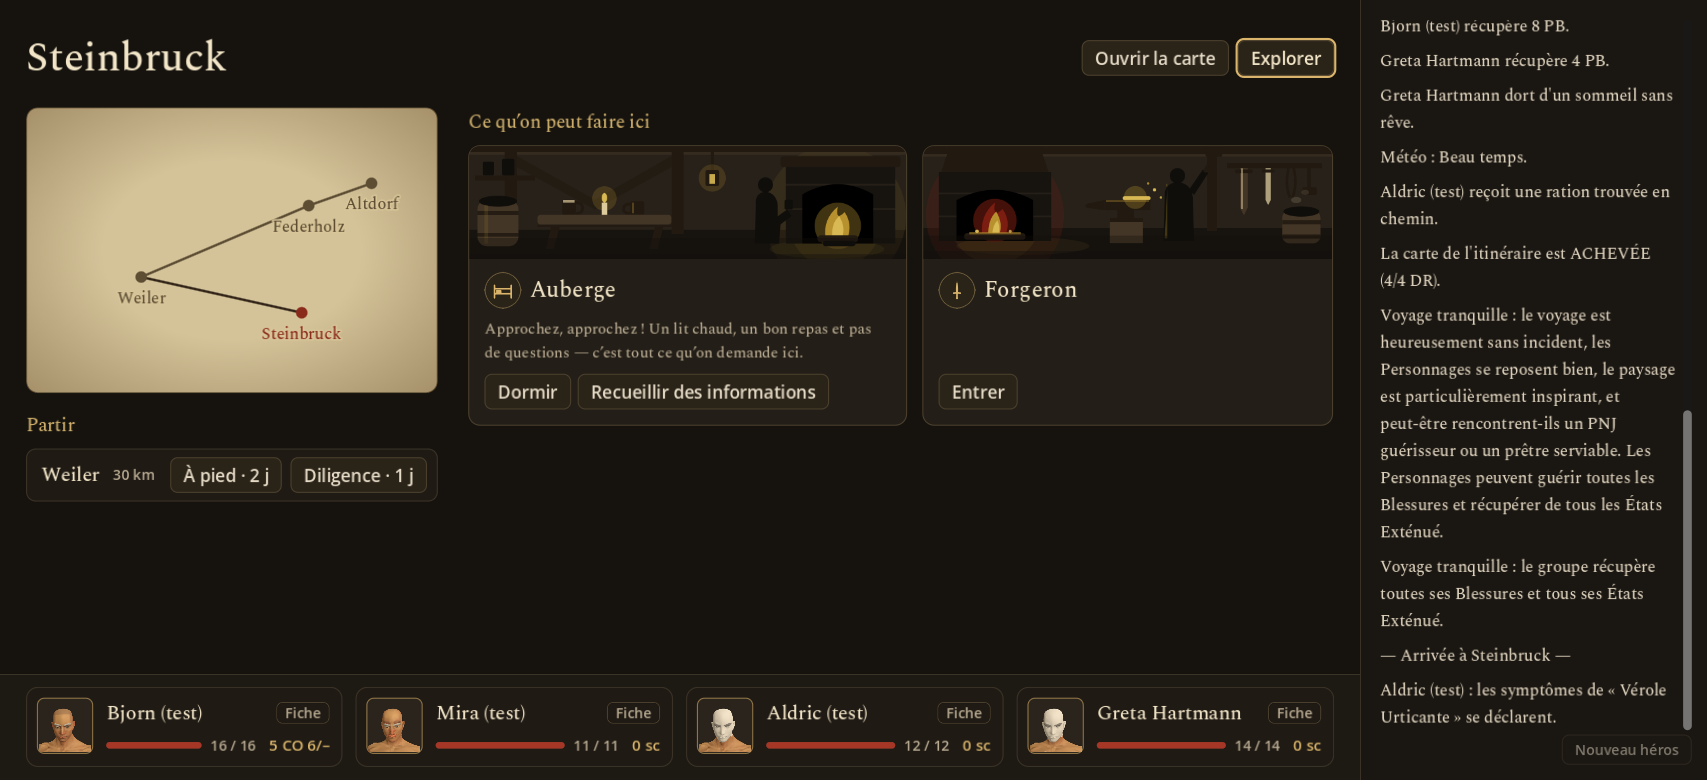
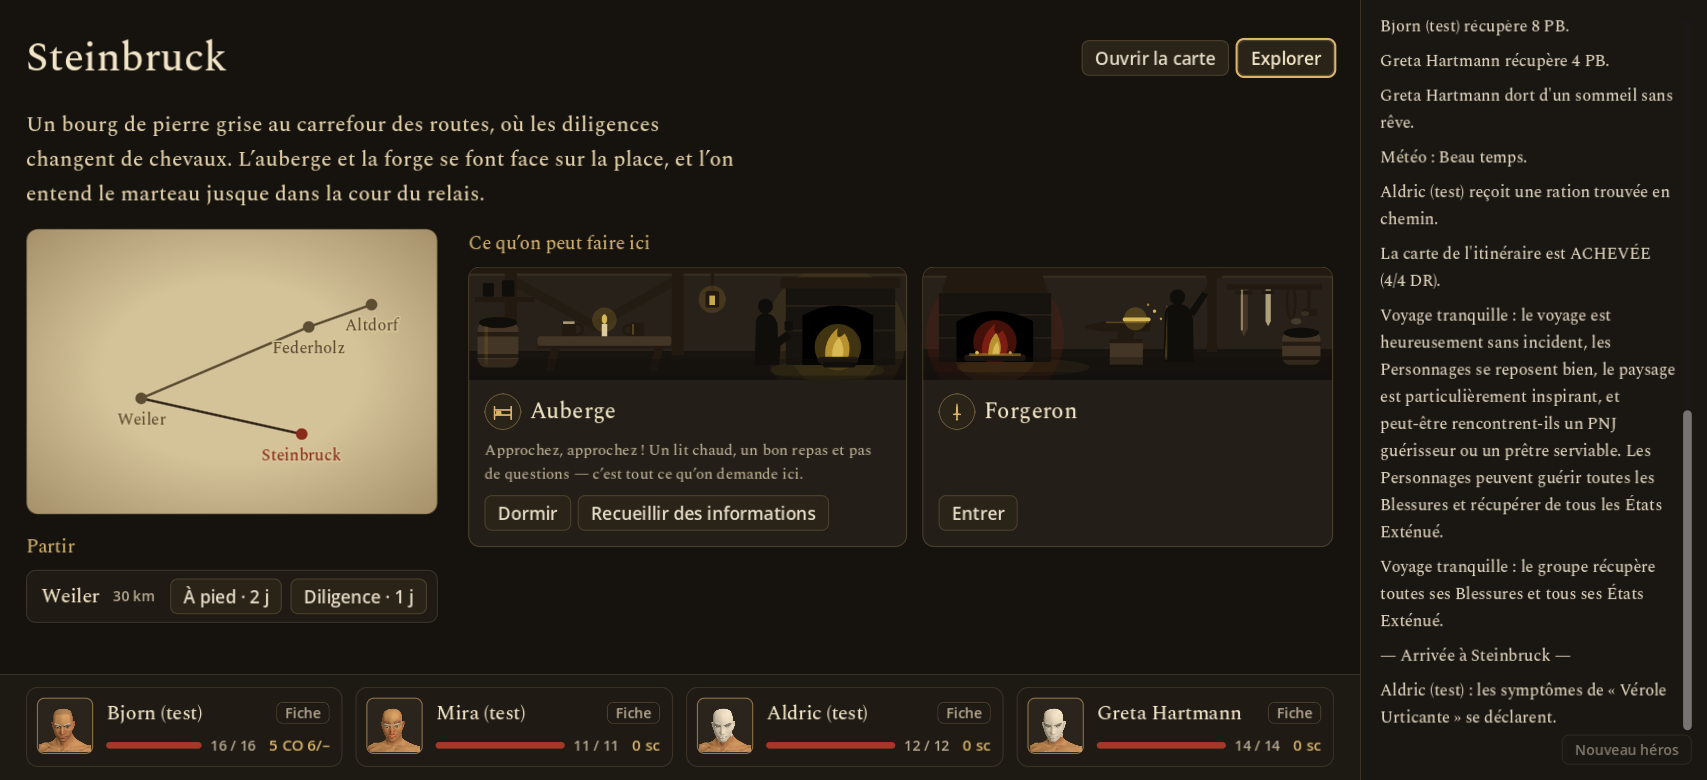
feat(monde): un lieu de la carte porte sa description, lue à son écran (#3935)
refs #3935 #3534

L'écart nommé au ticket #3534 : « aucun champ ne porte la description du lieu dans `MapPlace`, et la prose doit
suivre la règle 5 ».

Donnée :
- `worldMap.places[].description` est une prose nommée de paquet (`PROSES_NOMMEES`, narration, optionnelle), portée
  par le lieu lui-même avec sa provenance (`source` / `adapteDe` / Maison), sur le patron du terrain d'une bataille
  (`massBattle.terrain`) : aucun nœud d'objet neuf au schéma du projet.
- L'éditeur de carte la saisit et dit sa provenance ; l'écran de ville du web la rend en tête (site déclaré à
  `SITES_PROSE`).

Vue :
- `lieuEnVue` la sert dite aux identités en vigueur (`nommer`) ; `ecranDuLieu` l'émet en ligne `lieu/description`.

Godot :
- La ligne prend la forme `description` (Spectral 20, ligne de 66 caractères) sous le titre du lieu, au-dessus du
  plan et des services ; sans description, l'écran ne lui garde aucune place.

Les quatre lieux du scénario de test `voyage` reçoivent une description maison ; la planche `lieu` est
réenregistrée et son étalon reposé, non validé. La planche `document` est réenregistrée avec elle : sur `main`
propre, `--enregistrer` la réécrit déjà (seule `plateau.cleDuMonde` y change), son étalon reste conforme.

Reste ouvert au ticket : l'illustration propre au lieu (aucune vague d'art sans demande) et les gens du lieu, qui
demandent un verbe au noyau (l'écran du lieu n'entre pas dans la scène où vivent ses PNJ).
[…]

diff --git a/src/noyau/lieuEnVue.ts b/src/noyau/lieuEnVue.ts
@@ -1,6 +1,7 @@
 /**
- * LE LIEU EN VUE (#3534) — ce qu'un hôte montre de l'écran du lieu qui tient la main : le nom du lieu, sa place sur le
- * plan de la carte (`planDepuis`) et le geste qui l'ouvre, chacun de ses services (`placeServices`), son icône, son fond,
+ * LE LIEU EN VUE (#3534) — ce qu'un hôte montre de l'écran du lieu qui tient la main : le nom du lieu, sa description
+ * dite aux identités en vigueur (`nommer`), sa place sur le plan de la carte (`planDepuis`) et le geste qui l'ouvre,
+ * chacun de ses services (`placeServices`), son icône, son fond,
  * le boniment de son hôte et ce qu'on y fait, écrit en verbe du noyau avec ce qui le ferme maintenant, les points
  * d'intérêt de son plan qui mènent à une scène et le choix d'y entrer (`entreesDuLieu`, #3611), puis les trajets qui en partent
  * (`trajetsDepuis`). Lecteur PUR, lu par les hôtes du noyau (`hote/ecran.ts`).
@@ -12,6 +13,7 @@ import { planDepuis, trajetsDepuis, type PlanDeLaCarte, type TrajetEnVue } from 
 import { refusDEntrerAuPort } from './portFlow';
 import { entreesDuLieu, refusDEntrerAuPoint } from './lieuFlow';
 import { sceneDuRegistre } from './monde/registreDesScenes';
+import { identitesResolues, nommer } from './monde/identites';
 import { fenetreDuJeu } from './combatAuto';
 import { VERBE_DE_CHOIX } from './choixDesFenetres';
 import { t } from '../i18n';
@@ -26,9 +28,9 @@ export interface ServiceEnVue { id: string; nom: string; icone: string; fond: st
 /** Un point d'intérêt du plan du lieu qui mène à une scène, et le geste d'y entrer. */
 export interface PointDInteretEnVue { id: string; nom: string; geste: GesteDuService }
 
-/** L'écran du lieu : son nom, le plan de la carte vu d'ici et le geste qui ouvre la carte, ses services, ses points
- *  d'intérêt, ses trajets. */
-export interface LieuEnVue { nom: string; plan: PlanDeLaCarte; carte: GesteDuService; services: ServiceEnVue[]; pointsDInteret: PointDInteretEnVue[]; trajets: TrajetEnVue[] }
+/** L'écran du lieu : son nom, sa description, quand il en a une, le plan de la carte vu d'ici et le geste qui ouvre
+ *  la carte, ses services, ses points d'intérêt, ses trajets. */
+export interface LieuEnVue { nom: string; description: string | null; plan: PlanDeLaCarte; carte: GesteDuService; services: ServiceEnVue[]; pointsDInteret: PointDInteretEnVue[]; trajets: TrajetEnVue[] }
 
 /** Ce qu'on fait au service `svc` du lieu : y dormir et y recueillir des informations à l'auberge, y entrer
  *  ailleurs (le port, le marché, l'échoppe de son marchand) ; rien pour un service sans écran. */
@@ -60,5 +62,6 @@ export function lieuEnVue(s: Jeu): LieuEnVue | null {
   }));
   const carte: GesteDuService = { id: 'carte', libelle: t('lieu.carte'), geste: { verbe: 'ouvrirLaCarte', args: [] }, refus: null };
   const trajets = trajetsDepuis(s, s.worldMap, ici);
-  return { nom: ici.label, plan: planDepuis(s, s.worldMap, ici, trajets), carte, services, pointsDInteret, trajets };
+  const description = ici.description ? nommer(ici.description, identitesResolues(s)) : null;
+  return { nom: ici.label, description, plan: planDepuis(s, s.worldMap, ici, trajets), carte, services, pointsDInteret, trajets };
 }

diff --git a/src/scenes/test-scenarios/voyage.ts b/src/scenes/test-scenarios/voyage.ts
@@ -163,12 +163,16 @@ const construireCarte = (): WorldMap => ({
   id: 'test-voyage-carte',
   label: 'Marches de Weiler (test)',
   places: [
-    { id: 'p-village', label: 'Weiler', pos: { x: 24, y: 62 }, scene: { id: 'test-voyage-village' }, icon: 'scenario/village' },
-    { id: 'p-hameau', label: 'Federholz', pos: { x: 72, y: 30 }, scene: { id: 'test-voyage-hameau' }, icon: 'scenario/hamlet' },
-    { id: 'p-bourg', label: 'Steinbruck', pos: { x: 70, y: 78 }, scene: { id: 'test-voyage-bourg' }, icon: 'scenario/port', services: [{ kind: { id: 'auberge' }, rest: { auberge: true } }, { kind: { id: 'forgeron' } }] },
+    { id: 'p-village', label: 'Weiler', pos: { x: 24, y: 62 }, scene: { id: 'test-voyage-village' }, icon: 'scenario/village',
+      description: 'Une rue de boue, un puits, une auberge dont l’enseigne grince. Weiler vit de ses champs et de ceux qui passent : la piste s’enfonce sous les arbres vers Federholz, la route descend vers le bourg de Steinbruck.' },
+    { id: 'p-hameau', label: 'Federholz', pos: { x: 72, y: 30 }, scene: { id: 'test-voyage-hameau' }, icon: 'scenario/hamlet',
+      description: 'Quelques toits de chaume serrés contre la lisière. Les bûcherons de Federholz regardent passer les étrangers sans hâte ; après la dernière clôture commence la longue route d’Altdorf.' },
+    { id: 'p-bourg', label: 'Steinbruck', pos: { x: 70, y: 78 }, scene: { id: 'test-voyage-bourg' }, icon: 'scenario/port', services: [{ kind: { id: 'auberge' }, rest: { auberge: true } }, { kind: { id: 'forgeron' } }],
+      description: 'Un bourg de pierre grise au carrefour des routes, où les diligences changent de chevaux. L’auberge et la forge se font face sur la place, et l’on entend le marteau jusque dans la cour du relais.' },
     // id 'altdorf' (pas juste 'p-cite') : les Activités d'Altdorf (ACE Annexe I) gatées `where:['altdorf']`
     // (activities.json — Pénitence, Entraînement, Tester des objets…) lisent le `lieu` du groupe par son id.
-    { id: 'altdorf', label: 'Altdorf', pos: { x: 90, y: 20 }, scene: { id: 'test-voyage-cite' }, icon: 'scenario/siege' },
+    { id: 'altdorf', label: 'Altdorf', pos: { x: 90, y: 20 }, scene: { id: 'test-voyage-cite' }, icon: 'scenario/siege',
+      description: 'La capitale s’annonce par l’odeur de son fleuve bien avant ses murs. Passé la porte, la foule, les étals et les crieurs avalent le voyageur : ici tout s’achète, et tout se sait.' },
   ],
   routes: [
     {

diff --git a/src/data/schemas/defs-scenes/worldmap.ts b/src/data/schemas/defs-scenes/worldmap.ts
@@ -116,7 +116,7 @@ export const placePoiSchema = nommerChamps(z
   }), { id: { label: "identifiant" , texte: { regime: "technique"} }, label: { label: "libellé" , texte: { regime: "designation"} }, pos: { label: "position" }, icon: { label: "icône" , texte: { regime: "technique"} }, sceneId: { label: "scène" , texte: { regime: "technique"} }, serviceKind: { label: "type de service" , texte: { regime: "technique"} } });
 
 /** `MapPlace` — lieu posé sur la carte ; être dans `scene` = être à ce lieu. */
-export const mapPlaceSchema = nommerChamps(z.strictObject({
+export const mapPlaceSchema = proseNommee(nommerChamps(z.strictObject({
   id: z.string(),
   label: z.string(),
   /** Position sur la carte du monde. */
@@ -135,7 +135,7 @@ export const mapPlaceSchema = nommerChamps(z.strictObject({
    *  narratif : la destination n'apparaît qu'une fois révélée. Absente = toujours visible. */
   when: conditionCondCtxSchema.optional(),
   couvre: couvreSchema.optional(),
-}), { id: { label: "identifiant" , texte: { regime: "technique"} }, label: { label: "libellé" , texte: { regime: "designation"} }, pos: { label: "position" }, scene: { label: "scène" , texte: { regime: "technique"} }, entry: { label: "entrée" , texte: { regime: "technique"} }, icon: { label: "icône" , texte: { regime: "technique"} }, port: { label: "port" }, market: { label: "marché" }, services: { label: "services" }, poi: { label: "points d’intérêt" }, backdrop: { label: "fond" }, when: { label: "condition" }, couvre: { label: "entrées couvertes" , texte: { regime: "technique"} } });
+}), { id: { label: "identifiant" , texte: { regime: "technique"} }, label: { label: "libellé" , texte: { regime: "designation"} }, pos: { label: "position" }, scene: { label: "scène" , texte: { regime: "technique"} }, entry: { label: "entrée" , texte: { regime: "technique"} }, icon: { label: "icône" , texte: { regime: "technique"} }, port: { label: "port" }, market: { label: "marché" }, services: { label: "services" }, poi: { label: "points d’intérêt" }, backdrop: { label: "fond" }, when: { label: "condition" }, couvre: { label: "entrées couvertes" , texte: { regime: "technique"} } }), 'worldMap.places[].description');
 
 /** `RoutePeril` — péripétie d'AUTEUR tirée chaque jour de voyage à `chancePct` %. Hors de toute scène, elle en ouvre
  *  les portées VIDES (`ouvrirPortees`, source `'vide'`) : aucune référence locale de la scène n'y résout. */

diff --git a/src/data/schemas/grammaire/prose-nommee.test.ts b/src/data/schemas/grammaire/prose-nommee.test.ts
@@ -8,7 +8,7 @@ import { indiceStadeSchema, documentNarratifSchema } from '../defs-scenes/narrat
 import { designerHerosSchema, ouvertureSchema, sousTitreOuvertureSchema, sousTitreClotureSchema } from './campagne';
 import { massBattleSpecSchema, setObjectiveSchema, grantFavorSchema, journalSchema, sceneFlowSchema } from '../defs-scenes/effets';
 import { dialogueNodeSchema, messageIntroductionSchema } from '../defs-scenes/scene';
-import { refusRouteSchema } from '../defs-scenes/worldmap';
+import { mapPlaceSchema, refusRouteSchema } from '../defs-scenes/worldmap';
 import { authoredStakeSchema, OP_DEFS, gameOpSchema, OPS_NON_TYPEES } from './mecanique';
 import { coDescendre, descendre, enfantsDe, declarationDEnfants, defDe } from './descente';
 import { fautesProseFinale, classificationsProseLocale } from '../../../../scripts/guards/lib/proseNommee.mjs';
@@ -27,6 +27,7 @@ const SITES: Record<keyof typeof PROSES_NOMMEES, { schema: z.ZodType; nu: Record
   'massBattle.terrain': { schema: massBattleSpecSchema, nu: { allyMight: 50, enemyMight: 50, terrain: 'Texte.' } },
   'scenes[].startMessage.texte': { schema: messageIntroductionSchema, nu: { texte: 'Texte.' } },
   'worldMap.routes[].refus.texte': { schema: refusRouteSchema, nu: { texte: 'Texte.' } },
+  'worldMap.places[].description': { schema: mapPlaceSchema, nu: { id: 'lieu', label: 'Lieu', pos: { x: 10, y: 10 }, scene: { id: 's1' }, description: 'Texte.' } },
   'narratif.ouverture.sousTitre.texte': { schema: sousTitreOuvertureSchema, nu: { texte: 'Texte.' } },
   'narratif.cloture.sousTitre.texte': { schema: sousTitreClotureSchema, nu: { texte: 'Texte.' } },
   'setObjective.desc': { schema: setObjectiveSchema, nu: { type: 'setObjective', id: 'objectif', desc: 'Texte.' } },

diff --git a/src/hote/ecran.ts b/src/hote/ecran.ts
@@ -374,16 +374,17 @@ function trajetsDeLaCarte(etat: Jeu): Element[] {
   ];
 }
 
-/** L'écran du lieu (`lieuEnVue`), dont le nom est le titre de la fenêtre : le plan de la carte vu d'ici (`lieu/plan`,
- *  `planDeLaCarte`, rien sous ses lieux) et le bouton qui ouvre la carte (`lieu/carte`) ; sous leur titre
- *  (`lieu/services`), chacun de ses services en entité, son fond (`fond`), son icône (`icone`), le boniment de son hôte
- *  (`accueil`) et ce qu'on y fait en boutons fermés avec leur raison, chacun des points d'intérêt de son plan et son
+/** L'écran du lieu (`lieuEnVue`), dont le nom est le titre de la fenêtre : sa description (`lieu/description`),
+ *  quand il en a une ; le plan de la carte vu d'ici (`lieu/plan`, `planDeLaCarte`, rien sous ses lieux) et le bouton
+ *  qui ouvre la carte (`lieu/carte`) ; sous leur titre (`lieu/services`), chacun de ses services en entité, son fond
+ *  (`fond`), son icône (`icone`), le boniment de son hôte (`accueil`) et ce qu'on y fait en boutons fermés avec leur raison, chacun des points d'intérêt de son plan et son
  *  entrée ; puis, sous leur titre (`lieu/trajets`), chaque trajet qui en part, sa destination et son départ
  *  (`departDuTrajet`). */
 function ecranDuLieu(etat: Jeu): Element[] {
   const l = lieuEnVue(etat);
   if (!l) return [];
   return [
+    ...(l.description ? [ligne('lieu/description', l.description)] : []),
     planDeLaCarte('lieu/plan', l.plan, () => []),
     boutonDeGeste('lieu/carte', l.carte.libelle, l.carte.geste, l.carte.refus),
     ...(l.services.length || l.pointsDInteret.length ? [ligne('lieu/services', t('ecran.lieu.services'))] : []),

diff --git a/src/ui/editor/WorldMapPlacePanel.tsx b/src/ui/editor/WorldMapPlacePanel.tsx
@@ -23,6 +23,8 @@ import { navalPorts, findNavalPortById, lieuxServices } from '../../data';
 import { IconField, BackdropField, RefSelect } from './worldMapPickers';
 import { WhenEditor } from './ConditionEditor';
 import { CouvreField } from './CouvreField';
+import { ProseField } from '../ProseField';
+import { ProvenanceDuTexte } from './ProvenanceDuTexte';
 import { CONDITION_KINDS_CARTE } from '../../data/schemas/grammaire/campagne';
 import { idDEntropie } from '../../web/entropie';
 
@@ -61,6 +63,8 @@ export function WorldMapPlacePanel({ place, scenes, narratif, updPlace }: {
           </label>
           <IconField label="Icône" value={place.icon} onChange={(icon) => updPlace(place.id, { icon })} />
           <BackdropField label="Fond d'ambiance" value={place.backdrop?.id} onChange={(id) => updPlace(place.id, { backdrop: id === undefined ? undefined : { id } })} />
+          <ProseField label="Description" value={place.description ?? ''} onChange={(description) => updPlace(place.id, description.trim() ? { description } : { description: undefined, source: undefined, adapteDe: undefined })} />
+          {place.description && <ProvenanceDuTexte copie identite={`${place.id}/description`} sujet="de la description du lieu" value={place} onChange={(patch) => updPlace(place.id, patch)} />}
           <RefSelect
             label="Scène liée"
             options={scenes}

diff --git a/src/data/schemas/grammaire/champs-prose-de-scene.ts b/src/data/schemas/grammaire/champs-prose-de-scene.ts
@@ -6,6 +6,7 @@ export const PROSES_NOMMEES = {
   'massBattle.terrain': { champ: 'terrain', label: 'terrain', regime: 'narration', presence: 'optionnel', porteur: 'folio' },
   'scenes[].startMessage.texte': { champ: 'texte', label: 'message d’introduction', regime: 'narration', presence: 'requis', porteur: 'folio' },
   'worldMap.routes[].refus.texte': { champ: 'texte', label: 'raison du refus', regime: 'narration', presence: 'requis', porteur: 'folio' },
+  'worldMap.places[].description': { champ: 'description', label: 'description', regime: 'narration', presence: 'optionnel', porteur: 'folio' },
   'narratif.ouverture.sousTitre.texte': { champ: 'texte', label: 'sous-titre', regime: 'narration', presence: 'requis', porteur: 'folio' },
   'narratif.cloture.sousTitre.texte': { champ: 'texte', label: 'sous-titre', regime: 'narration', presence: 'requis', porteur: 'folio' },
   'setObjective.desc': { champ: 'desc', label: 'objectif', regime: 'narration', presence: 'requis', porteur: 'adresse' },

diff --git a/src/ui/liage.ts b/src/ui/liage.ts
@@ -97,6 +97,7 @@ export const SITES_PROSE: SiteProse[] = [
   { cle: 'src/ui/CityHubScreen.tsx#ActivityPane.desc#3', origine: 'S', porteur: 'lieux-services.desc' },
   { cle: 'src/ui/CityHubScreen.tsx#ActivityPane.desc#4', origine: 'S', porteur: 'lieux-services.desc' },
   { cle: 'src/ui/CityHubScreen.tsx#ActivityPane.desc#5', origine: 'UI', paquet: [], note: 'littéral d’écran (« Ce point mène à un autre endroit. ») — aucune source' },
+  { cle: 'src/ui/CityHubScreen.tsx#Prose.md#1', origine: 'S', paquet: ['worldMap.places[].description'], note: 'description du lieu, en tête de son écran' },
 
   // ── Mer & navire ──────────────────────────────────────────────────────────────────────────────
   { cle: 'src/ui/PortView.tsx#Prose.md#1', origine: 'S', porteur: 'navalPorts.desc' },

diff --git a/hotes/godot/pont/voyage.hors-store.test.ts b/hotes/godot/pont/voyage.hors-store.test.ts
@@ -74,6 +74,7 @@ describe('le voyage par le pont', () => {
     expect(suite.vue.zones['fenetre.titre'].map((l) => l.texte), 'le lieu en titre').toEqual(['Steinbruck']);
     expect(suite.vue.projection.scene?.id, 'le groupe n’est pas entré dans la scène du lieu').toBe('test-voyage-village');
     const corps = parId(suite.vue.zones['fenetre.corps']);
+    expect((corps['lieu/description'] as Ligne).texte, 'la description du lieu').toMatch(/^Un bourg de pierre grise au carrefour des routes/);
     const plan = corps['lieu/plan'] as Plan;
     expect(plan.points.filter((pt) => pt.ton === 'alerte').map((pt) => pt.nom), 'le plan de la carte vu d’ici, le lieu du groupe en alerte').toEqual(['Steinbruck']);
     expect(plan.points.flatMap((pt) => pt.elements), 'rien sous les lieux de ce plan : on part depuis les trajets').toEqual([]);

diff --git a/src/noyau/worldMap.ts b/src/noyau/worldMap.ts
@@ -66,6 +66,10 @@ export interface MapPlace {
   /** Bande d'ambiance du hub de ce lieu (id du registre des fonds de l'hôte) — surcharge le défaut
    *  éventuel porté par le service (`lieux-services.json`, ex. auberge). Éditable dans `WorldMapEditor`. */
   backdrop?: { id: string };
+  /** Ce que le groupe voit et sait du lieu en y arrivant, lu à l'écran du lieu. */
+  description?: string;
+  source?: SourceRef;
+  adapteDe?: SourceRef;
   /** Le lieu EXISTE-t-il sur la carte (algèbre `Condition`, cf. `evalCondition`) — axe NŒUD du gating
    *  narratif : une destination n'apparaît qu'une fois RÉVÉLÉE par le récit (`setFlag`). Absente =
    *  toujours visible. Lue par `visiblePlaces` (le rendu et le cadrage consomment la liste FILTRÉE). */

diff --git a/src/ui/CityHubScreen.tsx b/src/ui/CityHubScreen.tsx
@@ -19,6 +19,7 @@ import { Coins } from './Coins';
 import { Icon, IconG } from './Icon';
 import { SpeakerBanner } from './SpeakerBanner';
 import { ActivityPane } from './ActivityPane';
+import { Prose } from './Prose';
 import { GatedAction, raisonSi } from './GatedAction';
 import { refusDEntrerAuPort } from '../noyau/portFlow';
 
@@ -302,6 +303,7 @@ export function CityHubScreen({
       body="centered"
     >
       <div className="city-hub-body">
+        {place.description && <div className="panel"><Prose md={place.description} paquet /></div>}
         {screenTab === 'plan' && poi.length > 0 ? (
           <MasterDetail
             className="city-hub-master city-hub-plan"
